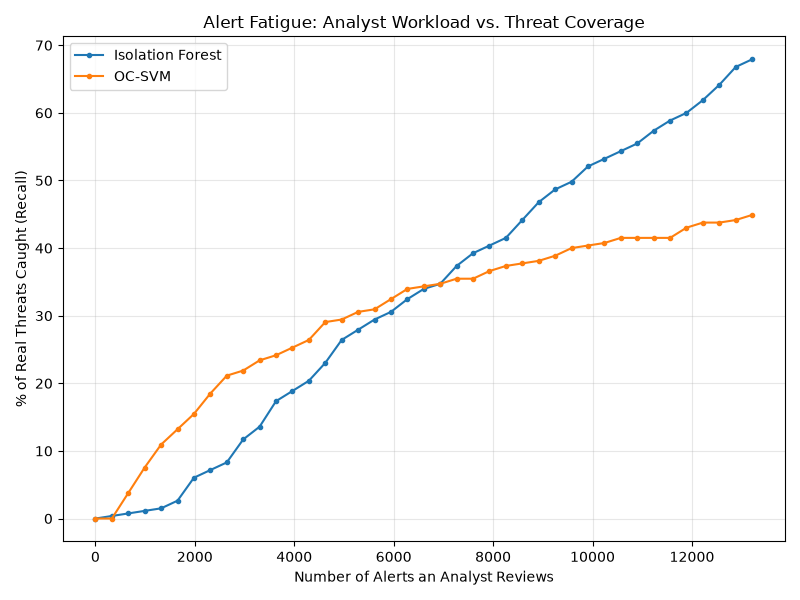
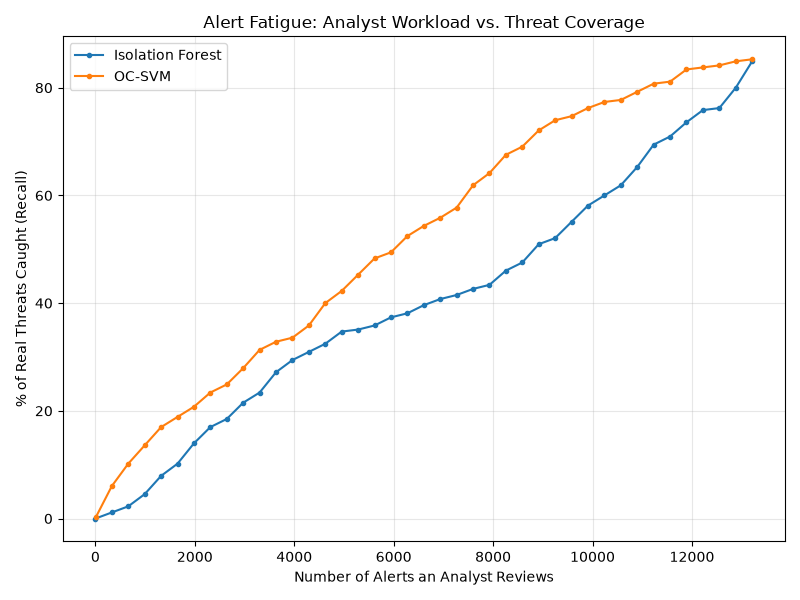
Update alert fatigue feature set

diff --git a/alert_fatigue_analysis.py b/alert_fatigue_analysis.py
@@ -23,16 +23,35 @@ sys.path.append("notebooks")
 from evaluate import X_test, y_test
 
 FEATURE_COLUMNS = [
-    "login_hour", "after_hours_flag", "session_duration_mins",
-    "usb_events_count", "files_accessed_count", "email_count",
-    "unique_domains_visited", "email_ext_recipient_count",
+    "login_hour",
+    "after_hours_flag",
+    "session_duration_mins",
+    "usb_events_count",
+    "files_accessed_count",
+    "email_count",
+    "unique_domains_visited",
+    "email_ext_recipient_count",
+    "days_since_last_spike",
+    "email_count_zscore",
+    "files_accessed_count_zscore",
+    "session_duration_mins_zscore",
+    "usb_events_count_zscore"
 ]
-
-X_test_features = X_test[FEATURE_COLUMNS]
 
 scaler = joblib.load("models/scaler.pkl")
 iso_model = joblib.load("models/iso_forest.pkl")
 ocsvm_model = joblib.load("models/ocsvm.pkl")
+
+FEATURE_COLUMNS = list(scaler.feature_names_in_)
+
+missing_features = [col for col in FEATURE_COLUMNS if col not in X_test.columns]
+
+if missing_features:
+    raise ValueError(
+        f"Test data is missing required features: {missing_features}"
+    )
+
+X_test_features = X_test[FEATURE_COLUMNS]
 
 X_test_scaled = scaler.transform(X_test_features)
 
